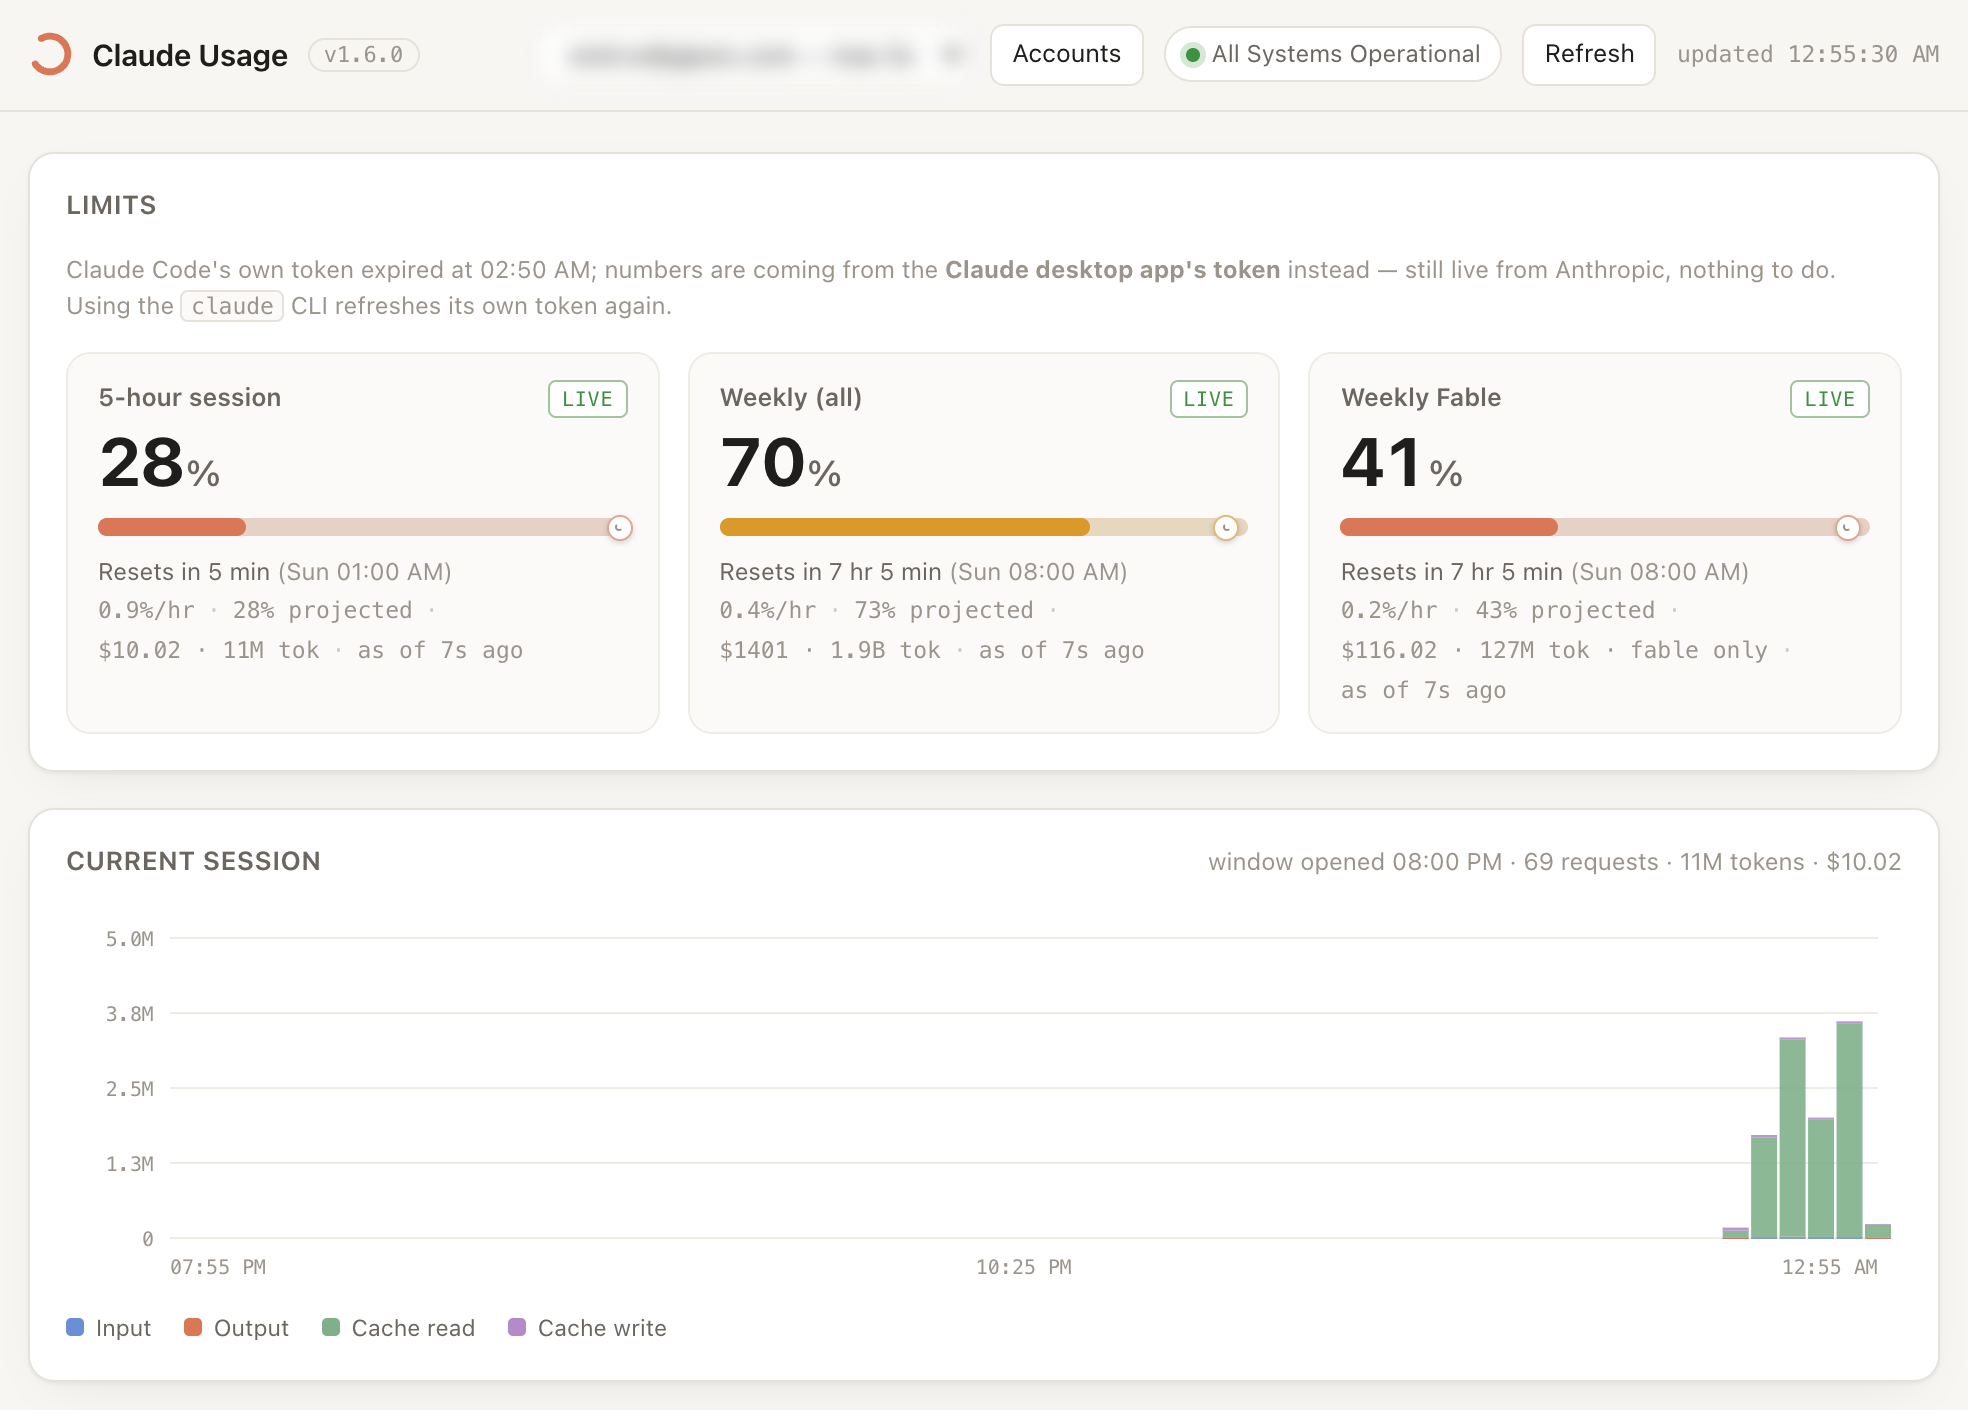
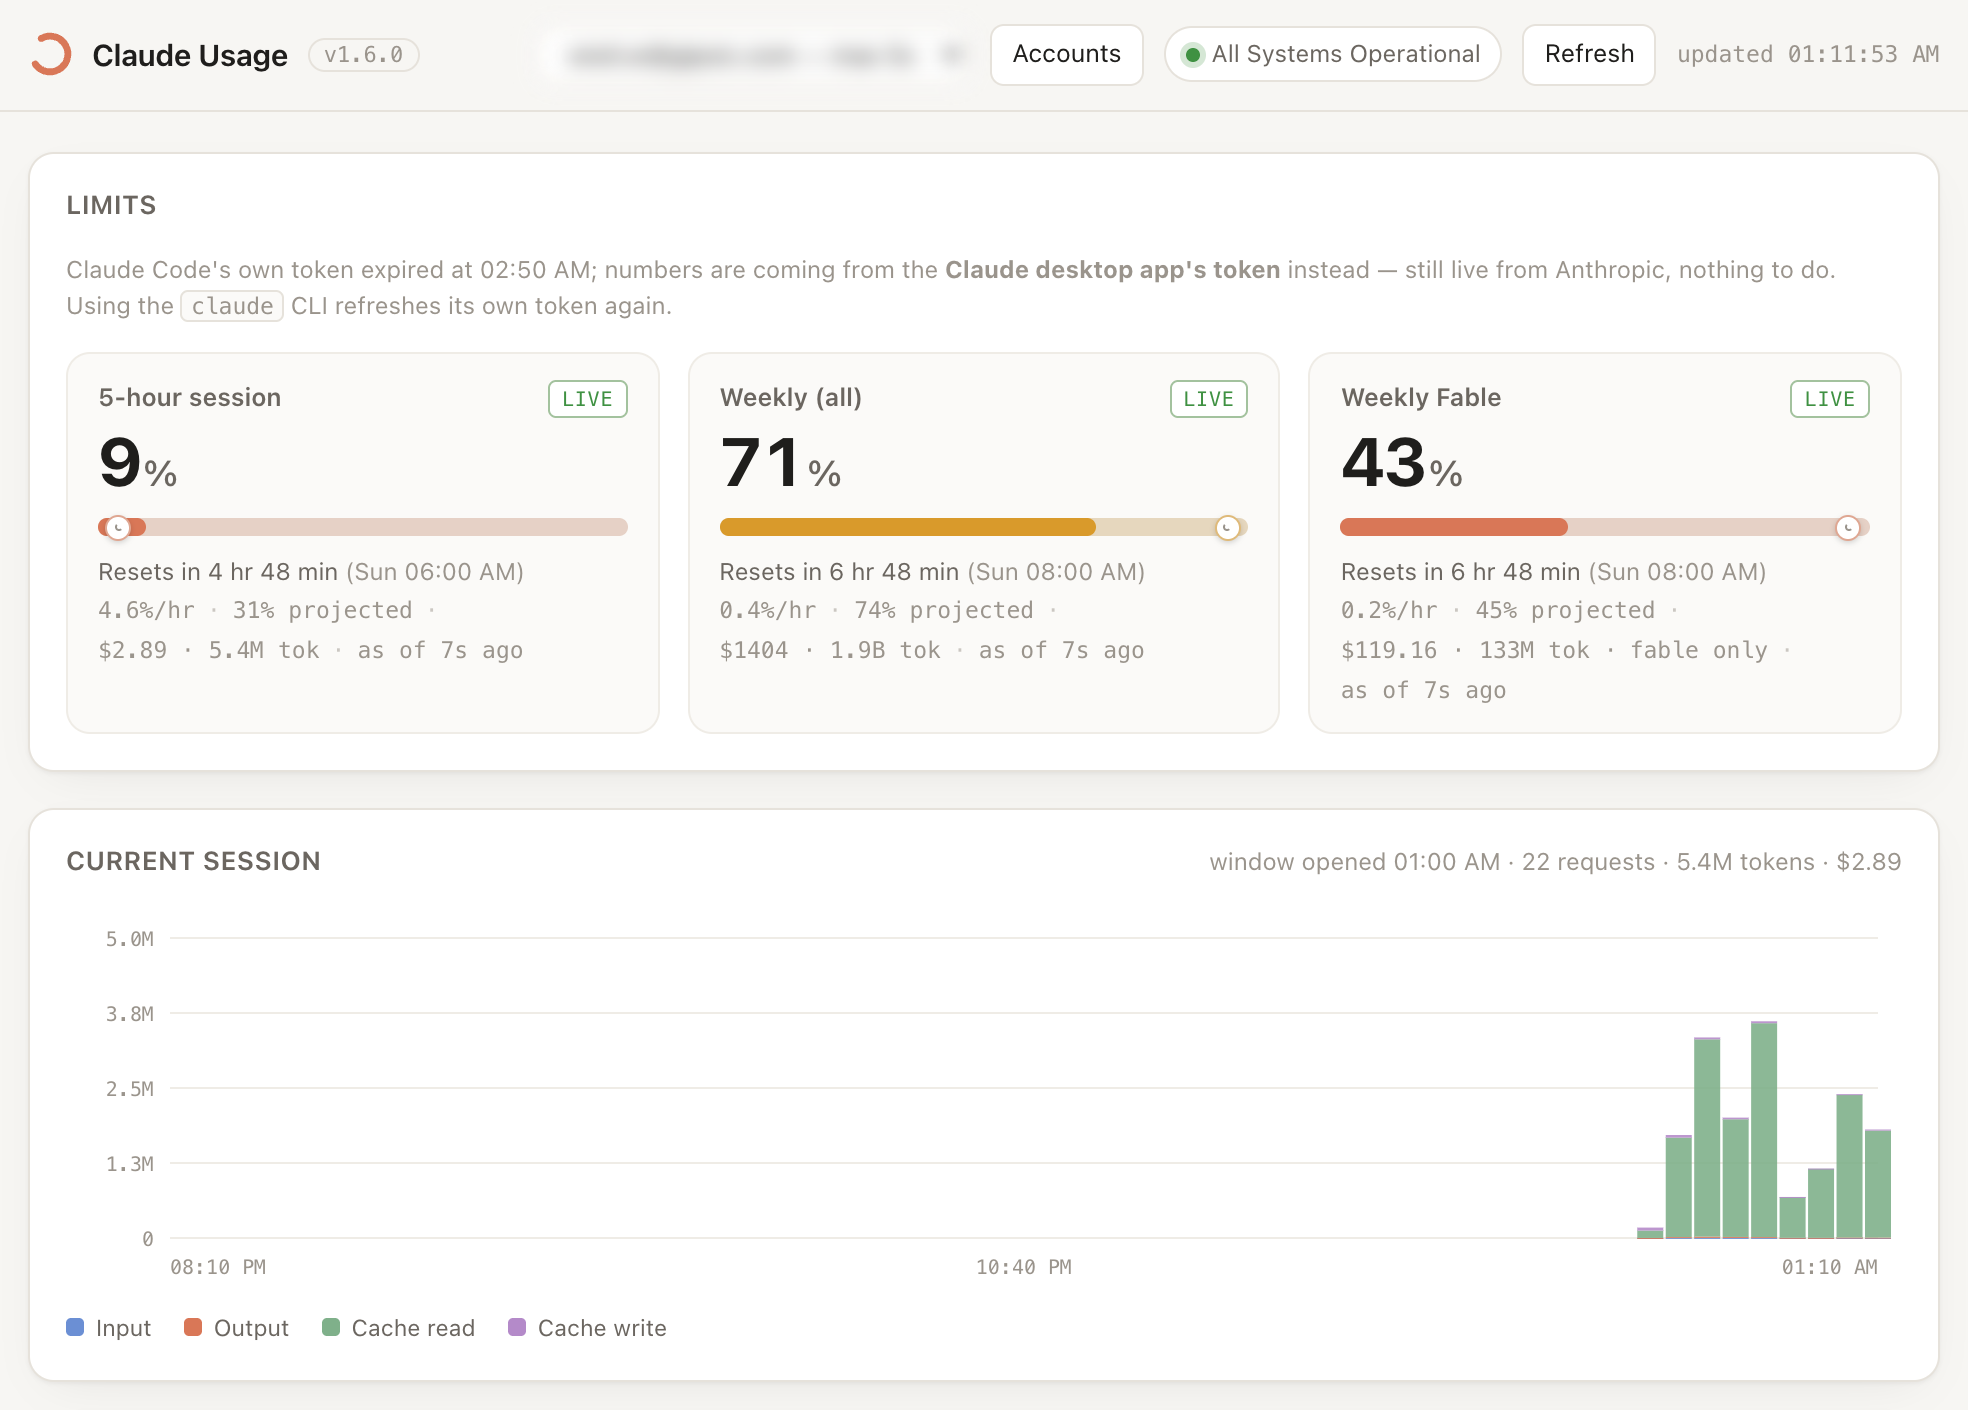
1.6.1: weekly reset markers on Usage history; scoped alerts name the window
The chart now marks each weekly rollover (dashed line, '↻ Sun 08:00') at the
instant Anthropic reported, fainter and mid-gap where only the desktop cache
saw the fall, and notes the next reset in the corner. /api/timeline carries
weeklyResets and nextWeeklyReset.

Alerts for a per-model window read '85% of seven_day_fable' because the label
came from the fixed WINDOWS table; limitState names every window, so use that.

README images re-shot with bin/shoot-readme.mjs.

diff --git a/web/charts.js b/web/charts.js
@@ -395,6 +395,28 @@ export function sessionHistoryChart(host, data, {
     svg.append(el('circle', { cx: X(last.t), cy: Y(last.u), r: 3.5, class: 'weekly-dot' }));
   }
 
+  // Weekly resets: a marker where the window rolled over, labelled with the
+  // time it happened, and a note on the next one. The schedule is fixed
+  // (Anthropic resets on the same weekday and hour), so seeing where the last
+  // one fell says how far the current window has to run.
+  const resets = (data.weeklyResets || []).filter((r) => r.t >= from && r.t <= to);
+  const clock = (t) => new Date(t).toLocaleString([], { weekday: 'short', hour: '2-digit', minute: '2-digit' });
+  for (const r of resets) {
+    const x = X(r.t);
+    svg.append(el('line', { x1: x, x2: x, y1: m.t, y2: m.t + ih, class: `reset-mark ${r.source}` }));
+    const tag = el('text', { x: x + 4, y: m.t + 10, class: 'reset-label' }, [`↻ ${clock(r.t)}`]);
+    if (x > W - m.r - 70) tag.setAttribute('x', x - 4), tag.setAttribute('text-anchor', 'end');
+    svg.append(tag);
+  }
+  const next = data.nextWeeklyReset;
+  if (next && !relativeNote) {
+    const inMs = next.t - to;
+    const dur = inMs < 3600e3 ? `${Math.max(1, Math.round(inMs / 60e3))} min`
+      : inMs < 864e5 ? `${Math.round(inMs / 3600e3)} h` : `${(inMs / 864e5).toFixed(1)} d`;
+    svg.append(el('text', { x: W - m.r, y: 11, 'text-anchor': 'end', class: 'axis reset-next' },
+      [`weekly resets ${clock(next.t)} · in ${dur}${next.source === 'inferred' ? ' · inferred' : ''}`]));
+  }
+
   // Day ticks along the x axis.
   const days = Math.max(1, Math.round(span / 864e5));
   const stepDays = days <= 8 ? 1 : days <= 35 ? 7 : Math.ceil(days / 8);

diff --git a/web/style.css b/web/style.css
@@ -317,6 +317,10 @@ table.tbl { width: 100%; border-collapse: collapse; font-size: 12.5px; }
 .block:hover .block-fill { opacity: .78; }
 .weekly-line { stroke: var(--accent); stroke-width: 1.8; stroke-linejoin: round; stroke-linecap: round; }
 .weekly-dot { fill: var(--accent); stroke: var(--panel); stroke-width: 2; }
+.reset-mark { stroke: var(--accent); stroke-width: 1; stroke-dasharray: 2 3; opacity: .7; }
+.reset-mark.observed { opacity: .45; }
+.reset-label { fill: var(--accent); font: 500 10px var(--mono, ui-monospace, monospace); opacity: .9; }
+.reset-next { fill: var(--accent); }
 
 /* ── limit cards (headline % + pace-marker track) ────────────────── */
 .gauges { display: grid; grid-template-columns: repeat(auto-fit, minmax(268px, 1fr)); gap: 14px; }

diff --git a/CHANGELOG.md b/CHANGELOG.md
@@ -6,6 +6,14 @@ All notable changes are recorded here. The format follows
 
 ## [Unreleased]
 
+## [1.6.1] — 2026-09-20
+
+### Added
+- **Usage history marks the weekly resets.** A dashed marker with the time (`↻ Sun 08:00`) wherever the weekly line fell to zero, and a note in the corner naming the next one (`weekly resets Sun 08:00 · in 2.1 d`). The instants are the ones Anthropic reported; where only the desktop cache saw the drop the marker sits mid-gap and is drawn fainter. `/api/timeline` carries them as `weeklyResets` and `nextWeeklyReset`.
+
+### Fixed
+- Notifications for a per-model window named its key (`85% of seven_day_fable`) instead of its label (`85% of Weekly Fable`).
+
 ### Changed
 - `bin/shoot-readme.mjs` re-shoots the README images and animation from the running dashboard (headless Chrome over the DevTools protocol, ffmpeg for the GIF). Development tool only; not in the npm package.
 

diff --git a/CLAUDE.md b/CLAUDE.md
@@ -1,7 +1,7 @@
 # claude-usage — engineering handoff
 
 Read this before touching code. It is the state of the project as of 2026-09-20
-(v1.6.0), the decisions that were made deliberately, the traps already
+(v1.6.1), the decisions that were made deliberately, the traps already
 stepped in, and what to build next. The user (Wisit, GIPSIC) reads Thai and
 English; reply in the language they write in, and lead with status.
 
@@ -144,7 +144,7 @@ live do API-only windows go stale.
 
 ## Testing
 
-`npm test` — 63 tests, hermetic: `tempHome()` sets `CLAUDE_USAGE_HOME`,
+`npm test` — 65 tests, hermetic: `tempHome()` sets `CLAUDE_USAGE_HOME`,
 `CLAUDE_USAGE_NO_KEYCHAIN=1`, `CLAUDE_USAGE_OFFLINE=1`, a fake desktop-cache path,
 and copies `test/fixtures/` **per process** (a shared copy raced between
 `scanner.test` and `server.test`). `CLAUDE_USAGE_MOCK_USAGE='{"status":401}'` or
